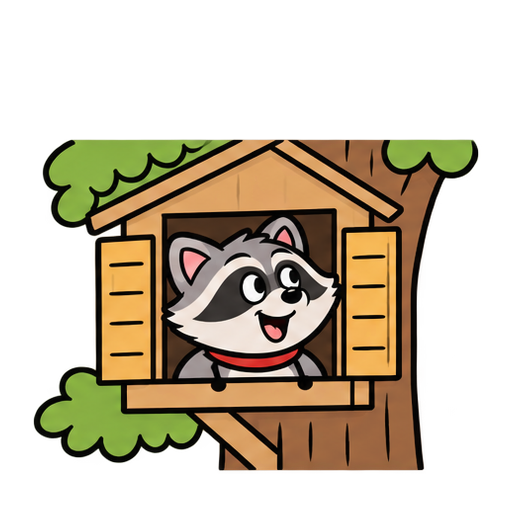
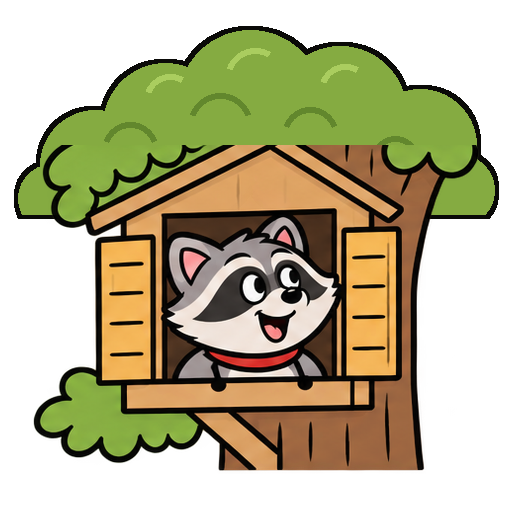
Fix cut-off treehouse, bathtub caption, raccoon walk; auto SFX on visual events; upload-safe encode rule
Claude-Session: https://claude.ai/code/session_01DA5YqBa2Jwn6NiquVGSCX8

Changed region(s): [[0.0, 0.0312, 1.0, 0.4375]]

diff --git a/src/Thanksgiving3/Kit.tsx b/src/Thanksgiving3/Kit.tsx
@@ -23,8 +23,16 @@ const Sfx: React.FC<{ at: number; name: string; vol: number }> = ({ at, name, vo
 const FPS = 30;
 
 /** Per-shot timing context: `offset` = global VO seconds at the shot's frame 0. */
-export const ShotCtx = createContext<{ offset: number; env?: number[]; stress?: number[] }>({ offset: 0 });
+export const ShotCtx = createContext<{ offset: number; env?: number[]; stress?: number[]; sfx?: [number, string, number?][] }>({ offset: 0 });
 export const useShot = () => useContext(ShotCtx);
+
+/** Automatic SFX for a visual event (pop-ins, tags, drops, entrances, notes): plays at `at` unless the
+ *  shot already has an explicit sfx within ±5 frames (so nothing doubles). Quiet: ≤0.12. */
+const AutoSfx: React.FC<{ at: number; name: string; vol: number }> = ({ at, name, vol }) => {
+  const { sfx } = useShot();
+  if ((sfx ?? []).some(([f]) => Math.abs(f - at) <= 5)) return null;
+  return <Sfx at={at} name={name} vol={vol} />;
+};
 
 const src = (key: string) => (key.startsWith("OLD/") ? `thanksgiving/${key.slice(4)}.png` : `tg2/${key}.png`);
 
@@ -97,6 +105,8 @@ export const Spr: React.FC<SprProps> = ({ s, x, y, h, flip, at = 0, until, enter
   const sway = Math.sin(f / 37 + x) * 0.5;
   return (
     <g>{enter && <EnterLines x={x + dx} y={y + dy} h={h} from={enter.from} lf={lf} frames={enter.frames} />}
+    {enter && <AutoSfx at={at} name="whoosh" vol={0.1} />}
+    {drop && <AutoSfx at={at + drop.frames - 1} name="thud" vol={0.12} />}
     <g transform={`translate(${x + dx} ${y + dy + bob}) rotate(${sway}) scale(${(flip ? -1 : 1) * sx} ${sy})`} opacity={opacity}>
       <g transform={`scale(${k}) translate(${-cx} ${-y1})`}>
         <image href={staticFile(src(s))} x={0} y={0} width={W} height={H} />
@@ -215,6 +225,7 @@ export const QMarks: React.FC<{ x: number; y: number; at?: number; spread?: numb
   const p = (d: number) => interpolate(f - at - d, [0, 4], [0, 1], { extrapolateLeft: "clamp", extrapolateRight: "clamp", easing: Easing.out(Easing.back(2)) });
   return (
     <g fontFamily={MONTSERRAT} fontWeight={800} fontSize={size} fill="#e02b2b" stroke={INK} strokeWidth={6} paintOrder="stroke" textAnchor="middle">
+      <AutoSfx at={at} name="boing" vol={0.06} />
       <text transform={`translate(${x - spread} ${y}) rotate(-14) scale(${p(0)})`}>?</text>
       <text transform={`translate(${x + spread} ${y - 20}) rotate(12) scale(${p(3)})`}>?</text>
     </g>
@@ -268,6 +279,7 @@ export const Note: React.FC<{ x: number; y: number; text: string; at?: number; r
   const n = Math.max(0, Math.floor(((f - at) / FPS) * 15));
   return (
     <g transform={`translate(${x} ${y}) rotate(${rot})`}>
+      <AutoSfx at={at} name="paper" vol={0.1} />
       <rect x={-w / 2 + 14} y={-170} width={w} height={340} fill="#000" opacity={0.25} />
       <rect x={-w / 2} y={-184} width={w} height={340} fill="#f6ecd2" stroke={INK} strokeWidth={8} />
       {[0, 1, 2, 3].map((i) => <line key={i} x1={-w / 2 + 40} x2={w / 2 - 40} y1={-90 + i * 66} y2={-90 + i * 66} stroke="#b9c7d8" strokeWidth={3} />)}
@@ -286,6 +298,7 @@ export const Tag: React.FC<{ name: string; x: number; y: number; w: number; at?:
   const pop = interpolate(f - at, [0, 4], [0.3, 1], { extrapolateRight: "clamp", easing: Easing.out(Easing.back(2)) });
   return (
     <g transform={`translate(${x} ${y}) rotate(${rot}) scale(${pop * k}) translate(${-(x0 + x1) / 2} ${-(y0 + y1) / 2})`}>
+      <AutoSfx at={at} name="pop" vol={0.1} />
       <image href={staticFile(`tg2/Tags/${name}.png`)} width={512} height={512} />
     </g>
   );
@@ -296,7 +309,7 @@ export const PopIn: React.FC<{ at?: number; x: number; y: number; children: Reac
   const f = useCurrentFrame();
   if (f < at) return null;
   const s = interpolate(f - at, [0, 7], [0, 1], { extrapolateRight: "clamp", easing: Easing.out(Easing.back(1.8)) });
-  return <g transform={`translate(${x} ${y}) scale(${s})`}>{children}</g>;
+  return <g transform={`translate(${x} ${y}) scale(${s})`}><AutoSfx at={at} name="pop" vol={0.08} />{children}</g>;
 };
 
 export { OSWALD };
@@ -382,6 +395,7 @@ export const Rig: React.FC<RigProps> = ({ c, pose, x, y, h, flip, at = 0, until,
   };
   return (
     <g>{enter && <EnterLines x={x + dx} y={y + dy} h={h} from={enter.from} lf={lf} frames={enter.frames} />}
+    {enter && <AutoSfx at={at} name="whoosh" vol={0.1} />}
     <g transform={`translate(${x + dx} ${y + dy + jump})`}>
       <g transform={`rotate(${walking ? 2 * Math.sign(walk) : 0}) scale(${flip ? -1 : 1} ${1 + breathe + rise * 0.02})`}>
         <g transform={`scale(${k}) translate(${-cx} ${-y1 + drop})`}>

diff --git a/src/Thanksgiving3/Ch8to10.tsx b/src/Thanksgiving3/Ch8to10.tsx
@@ -72,9 +72,9 @@ const SHOTS: Shot[] = [
       <Tag name="rebecca_collar" x={1340} y={740} w={480} at={t(wd(16, "collar"))} rot={6} />
     </Svg></Cam>) },
   { a: ln(17), el: (t, dur) => (
-    <Cam dur={dur} to={1.04}><Svg bg={<WhiteHouseLawn />}><Spr s="Poses/rebecca/walks_on_leash" x={1100} y={1030} h={330} walk={-3} /></Svg></Cam>) },
+    <Cam dur={dur} to={1.04}><Svg bg={<WhiteHouseLawn />}><Rig c="rebecca" pose="walks_on_leash" x={800} y={1030} h={360} walk={1} /></Svg></Cam>) },
   { a: ln(18), el: (t, dur) => (
-    <Cam dur={dur} from={1.02} to={1.08} ox="60%" oy="40%"><Svg bg={<WhiteHouseLawn />}><Spr s="Poses/rebecca/peeks_from_tree_house" x={1180} y={1030} h={760} /></Svg></Cam>) },
+    <Cam dur={dur} from={1.02} to={1.08} ox="62%" oy="75%"><Svg bg={<WhiteHouseLawn />}><Spr s="Poses/rebecca/peeks_from_tree_house" x={1200} y={1040} h={900} /></Svg></Cam>) },
   { a: ln(19), el: (t, dur) => (<>
     <Swap t={t(wd(19, "let"))} a={<Arch src="grace_rebecca" mode="portrait" dur={dur} sepia={0.35} />}
       b={<Cam dur={dur} to={1.04}><Svg bg={<WhiteHouseLawn />}>
@@ -86,7 +86,7 @@ const SHOTS: Shot[] = [
   </>) },
   { a: ln(20), el: (t, dur) => (<>
     <Cam dur={dur} to={1.05}><Svg bg={<B.PlateBg color="#8fc6d8" />}><Spr s="Poses/rebecca/bath_with_soap" x={960} y={980} h={560} stress /></Svg></Cam>
-    <Cap text={'"Playing in a partly filled bathtub"'} at={t(wd(21, "playing"))} size={60} />
+    <Cap text={'"Playing in a partly filled bathtub"'} pos="top" at={t(wd(21, "playing"))} size={60} />
   </>) },
   { a: ln(22), el: (t, dur) => (<>
     <Cam dur={dur} to={1.04}><Svg bg={<WhiteHouseLawn />}>

diff --git a/src/Thanksgiving3/index.tsx b/src/Thanksgiving3/index.tsx
@@ -134,7 +134,7 @@ const SHOTS: Shot[] = [
       </Svg>
     </Cam>) },
   { a: 13.17, b: 14.07, el: () => (
-    <Cam dur={27} from={1.02} to={1.08} ox="60%" oy="40%"><Svg bg={<WhiteHouseLawn />}><Spr s="Poses/rebecca/peeks_from_tree_house" x={1180} y={1030} h={760} /></Svg></Cam>) },
+    <Cam dur={27} from={1.02} to={1.08} ox="62%" oy="75%"><Svg bg={<WhiteHouseLawn />}><Spr s="Poses/rebecca/peeks_from_tree_house" x={1200} y={1040} h={900} /></Svg></Cam>) },
   { a: 14.07, b: 17.0, el: () => (
     <Cam dur={88} to={1.05}><Svg bg={<OvalOffice />}><Spr s="Poses/calvin_coolidge/content_with_rebecca" x={960} y={1020} h={600} /></Svg></Cam>) },
   { a: 17.0, b: 19.62, sfx: [[0, "whoosh", 0.12], [24, "boing", 0.08]], el: () => (
@@ -589,7 +589,7 @@ export const Thanksgiving3: React.FC = () => (
       const t = (sec: number) => Math.round((W(sec) - W(s.a)) * FPS);
       return (
         <Sequence key={i} from={from} durationInFrames={Math.max(1, to - from)}>
-          <ShotCtx.Provider value={{ offset: W(s.a) }}>{s.el(t)}</ShotCtx.Provider>
+          <ShotCtx.Provider value={{ offset: W(s.a), sfx: s.sfx }}>{s.el(t)}</ShotCtx.Provider>
           {(s.sfx ?? []).map(([at, name, vol], j) => (
             <Sequence key={j} from={Math.max(0, at)} durationInFrames={60}><Audio src={staticFile(`tg2/sfx/${name}.wav`)} volume={vol ?? 0.15} /></Sequence>
           ))}

diff --git a/src/Thanksgiving3/Episode.tsx b/src/Thanksgiving3/Episode.tsx
@@ -72,7 +72,7 @@ export const Episode: React.FC<{ data: EpData; shots: Shot[] }> = ({ data, shots
       const t = (sec: number) => Math.round((sec - s.a) * FPS);
       return (
         <Sequence key={i} from={from} durationInFrames={Math.max(1, to - from)}>
-          <ShotCtx.Provider value={{ offset: s.a, env: data.env, stress: data.stress }}>{s.el(t, to - from)}</ShotCtx.Provider>
+          <ShotCtx.Provider value={{ offset: s.a, env: data.env, stress: data.stress, sfx: s.sfx }}>{s.el(t, to - from)}</ShotCtx.Provider>
           {(s.sfx ?? []).map(([at, name, vol], j) => (
             <Sequence key={j} from={Math.max(0, at)} durationInFrames={60}><Audio src={staticFile(`tg2/sfx/${name}.wav`)} volume={vol ?? 0.15} /></Sequence>
           ))}

diff --git a/.claude/skills/2d-animation/SKILL.md b/.claude/skills/2d-animation/SKILL.md
@@ -96,6 +96,11 @@ This repo is a **Remotion** project (`src/Root.tsx`, 1920×1080 @ 30 fps).
 16. **Final delivery:** `ThanksgivingFinal` (src/Thanksgiving3/Final.tsx) chains every part with `Series`. For 4K, render each part with `--scale=2 --crf=18`, `ffmpeg concat -c copy`, then loudnorm I=-16 (see out/final/render.sh pattern). Run it detached (`nohup setsid`), because 4K takes hours.
 17. **Verify every VO before building on it. Never trust syllable estimates.** First transcribe the start of each file (`pocketsphinx`; `pip install pocketsphinx` bundles an English model) and confirm which chapters it really holds. A file named for one chapter can start at another: "ch7_9" was actually ch8–10, and that shifted whole chapters. Time lines with `scripts/force_align.py ep.json vo.mp3 out.json`, which does real forced alignment. Where the read differs from the script, use `RANGE=` sub-ranges plus `scripts/asr_anchor.py` anchors, combined by `scripts/build_ep.py`. Narrators skip chapter numbers and "Ending."; the aligner drops them (`SKIP_LINES` for other unspoken lines). Old hand-timed comps get a `warp.json` time map instead of a rewrite.
 18. **Review script vs picture before rendering.** Render one still per shot at its middle and contact-sheet each still with the line being spoken at that moment. Fix any shot whose picture doesn't fit its line. A turkey (or any recurring prop) appears only when the line is about it: audit with a regex over the shot code against the line text.
+19. **No cut-off art.** Some pack sprites are cropped flat at an edge (the treehouse tree was cut straight across the top). Audit with a longest-opaque-run check on each sprite's bbox edges (>70 px = cut). Complete the art in the sprite's own style (ink-outlined canopy, same sampled colours), save over the PNG, and update `sprites.json` bbox (and the shot's `h` so the scale stays right). Never let a sprite's cut edge show inside the frame.
+20. **Captions go where the space is.** If the subject fills the lower half (bathtub, crate, desk), use `pos="top"`. A caption may never sit on the character or prop.
+21. **Animals walk too.** A "walks" pose must move its legs, never slide. Split quadruped walk sprites into body + 4 leg layers (pivot at the belly, see `rig.json` `rebecca/walks_on_leash`), alternate sides L/R/L/R for a trot, and animate with `Rig walk={1}` (travel = stride, so feet don't slide). Face the direction of travel.
+22. **SFX are automatic on visual events.** `Kit.tsx` `AutoSfx` plays: `whoosh` on `enter` (Spr/Rig), `thud` on `drop` landing, `pop` on `Tag`/`PopIn`, `paper` on `Note`, `boing` on `QMarks`, unless the shot already lists an sfx within ±5 frames (no doubles; the shot's `sfx` is passed via `ShotCtx`). Only add per-shot `sfx` for story beats with no visual component.
+23. **Upload-safe delivery encode.** The 4K master is `yuvj420p` (full range) and plain x264 at 4K picks level 6.0; many players can't decode that and show leftover blocks from the previous scene (a green lawn patch over the next shot). Final encode: `-vf scale=in_range=pc:out_range=tv,format=yuv420p -profile:v high -level:v 5.1 -x264-params keyint=60:min-keyint=1:scenecut=40:ref=4` plus bt709 tags, 2-pass, ~3100k for a 16.5-min film under 400 MiB. Check with ffprobe (`level=51`, `pix_fmt=yuv420p`). When only a few shots change, delete just their 600-frame chunks (plus `audio.wav` if sound changed) and rerun `run.sh`.
 
 ## Attachment rule: nothing floats (every character, body part and prop)
 
